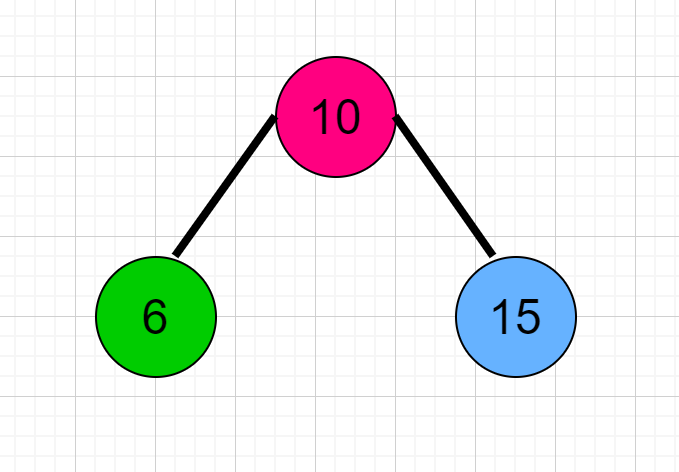
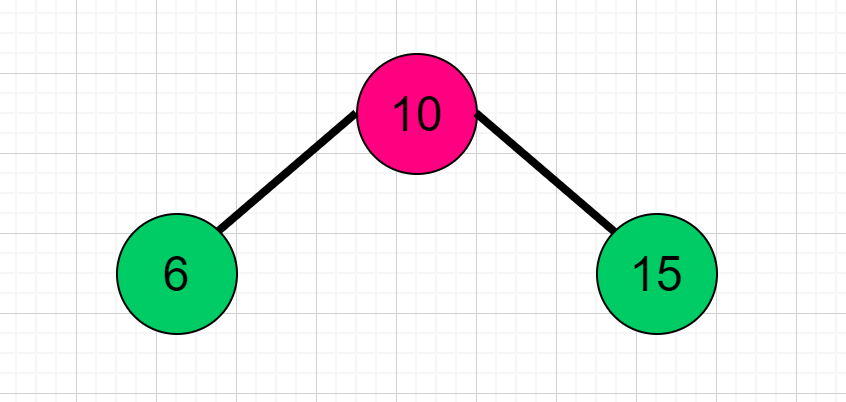
added more images for BST structure and removed some commented tags for inorder test file

diff --git a/BinarySearchTree/BST-Traversal/Inorder-Traversal/problem.test.js b/BinarySearchTree/BST-Traversal/Inorder-Traversal/problem.test.js
@@ -13,83 +13,37 @@ test("Return an array of value - [33]", () => {
     expect(inOrder(tree.root)).toEqual([33]);
 });
 
-
 // Test Case 3: //* Sample Image: refer to Images -> BST-structure-1.png
 test("Return an array of values - [17, 24, 31, 32, 34, 39]", () => {
     const tree = constructTree([24, 17, 31, 34, 32, 39]);
     expect(inOrder(tree.root)).toEqual([17, 24, 31, 32, 34, 39]);
 });
-/*
-
-     24
-    /  \
-   17  31    
-         \ 
-         34
-        /  \
-       32  39
-
-*/
 
 // Test Case 4:
 test("Return an empty array", () => {
     expect(inOrder(null)).toEqual([]);
 });
 
-// Test Case 5:
+// Test Case 5: //* Sample Image: refer to Images -> BST-structure-5.png
 test("Return an array of values - [0, 3, 5, 13, 18, 33, 65]", () => {
     const tree = constructTree([18, 5, 65, 3, 13, 33, 0]);
     expect(inOrder(tree.root)).toEqual([0, 3, 5, 13, 18, 33, 65]);
 });
-/*
-
-         18
-       /    \
-      5     65    
-    /  \   /   
-   3   13 33 
-  /         
- 0          
-
-*/
 
 // Test Case 6: //* Sample Image: refer to Images -> BST-structure-3.png
 test("Return an array of values - [62, 123]", () => {
     const tree = constructTree([62, 123]);
     expect(inOrder(tree.root)).toEqual([62, 123]);
 });
-/*
-
-     62
-       \
-       123  
-
-*/
 
 // Test Case 7:  //* Sample Image: refer to Images -> BST-structure-4.png
 test("Return an array of values - [62, 13]", () => {
     const tree = constructTree([62, 13]);
     expect(inOrder(tree.root)).toEqual([13, 62]);
 });
-/*
 
-     62
-    /   
-  13  
-
-*/
-
-// Test Case 8:
+// Test Case 8: //* Sample Image: refer to Images -> BST-structure-6.png
 test("Return an array of values - [3, 4, 5, 6, 7, 8, 9]", () => {
     const tree = constructTree([6, 4, 8, 3, 5, 7, 9]);
     expect(inOrder(tree.root)).toEqual([3, 4, 5, 6, 7, 8, 9]);
 });
-/*
-
-         6
-       /   \
-      4     8
-    /  \   / \
-   3    5 7   9
-
-*/
